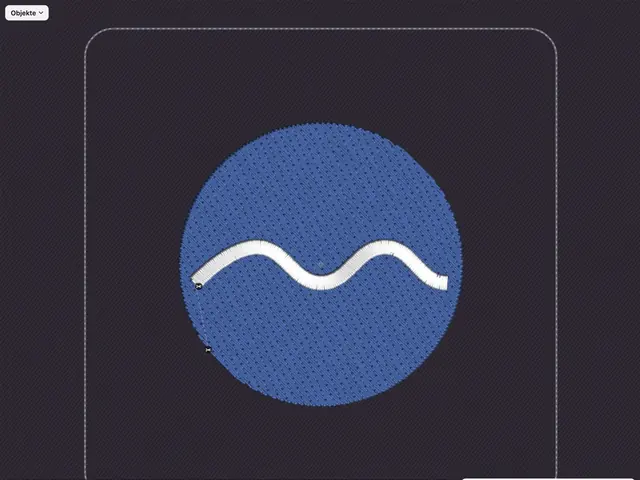
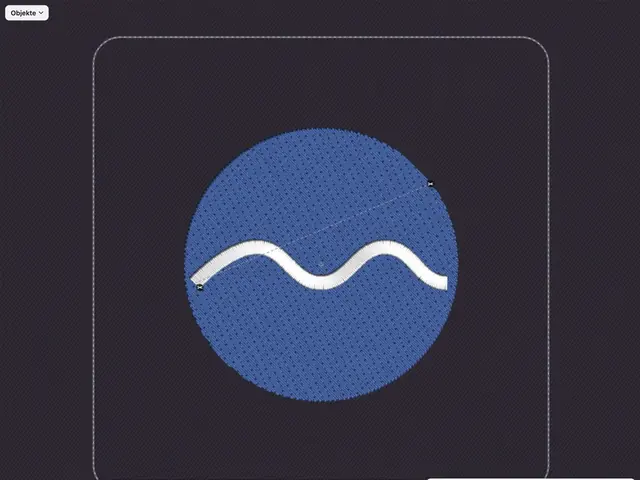
Teil 1 neu aufgenommen: neues Bild, Szene 9 schlichter, Stimme Gacrux, Länge 2:43 (#289)

Changed region(s): [[0.2812, 0.25, 0.75, 0.8438], [0.125, 0.0312, 0.875, 1.0], [0.6875, 0.9688, 0.7188, 1.0]]

diff --git a/src/videos/catalog.ts b/src/videos/catalog.ts
@@ -76,11 +76,11 @@ export const VIDEOS: Video[] = [
     key: '01-neues-stickmuster',
     part: 1,
     title: { de: 'Ein neues Stickmuster', en: 'A new embroidery design' },
-    length: '2:27',
+    length: '2:43',
     group: 'design',
     goal: { de: 'Du stickst dein erstes eigenes Muster, einen runden Aufnäher mit einer Welle, vom leeren Stickrahmen bis zur PES-Datei.', en: 'You make your first design of your own, a round patch with a wave, from the empty hoop to the PES file.' },
     files: [],
-    published: '2026-10-08T21:32:32+02:00',
+    published: '2026-10-11T20:31:13+02:00',
   },
   {
     key: '02-schrift',

diff --git a/docs/screencasts/01-neues-stickmuster/vorlage.md b/docs/screencasts/01-neues-stickmuster/vorlage.md
@@ -1,6 +1,8 @@
 # Teil 1: Ein neues Stickmuster
 
-Schlüssel `01-neues-stickmuster`, Demodatei: keine (Startseite, „Leer anfangen“), etwa 2 Minuten, 263 Wörter.
+Schlüssel `01-neues-stickmuster`, Demodatei: keine (Startseite, „Leer anfangen“), 2:43 lang mit der Stimme Gacrux, rund 255 Wörter.
+
+Neu aufgenommen im Oktober 2026 (main e9d6d55): gleicher Ablauf und Sprechtext (nur Szene 9 schlichter, ohne die realistische Ansicht anzupreisen), neues Bild (Logo, Aktionsleiste unter dem Breadcrumb, Maßstab unten links). Stimme abweichend von der Serie: Gacrux.
 
 Ziel: ein runder Aufnäher mit einer Welle. Kreis mit der Ellipse, 60 mm, blaues Garn; Welle mit dem Pfad, als Satin 3 mm in Weiß; abspielen, realistische Fäden, als PES speichern.
 
@@ -56,7 +58,7 @@ Ziel: ein runder Aufnäher mit einer Welle. Kreis mit der Ellipse, 60 mm, blaues
 
 **Bild:** Heranzoomen unten rechts, Etikett Ansicht-Menü am Auge, Klick. Etikett Realistische Fäden, Klick, Menü schließt. Heranzoomen auf den Aufnäher in realistischen Fäden.
 
-**Sprechtext:** Unten rechts auf der Bühne öffnet das Auge das Ansicht-Menü. Mit „Realistische Fäden“ siehst du dein Muster so, wie es auf dem Stoff aussehen wird. [impressed] Schön, oder?
+**Sprechtext:** Unten rechts auf der Bühne öffnet das Auge das Ansicht-Menü. Dort schalte ich Realistische Fäden ein.
 
 ## Szene 10
 
